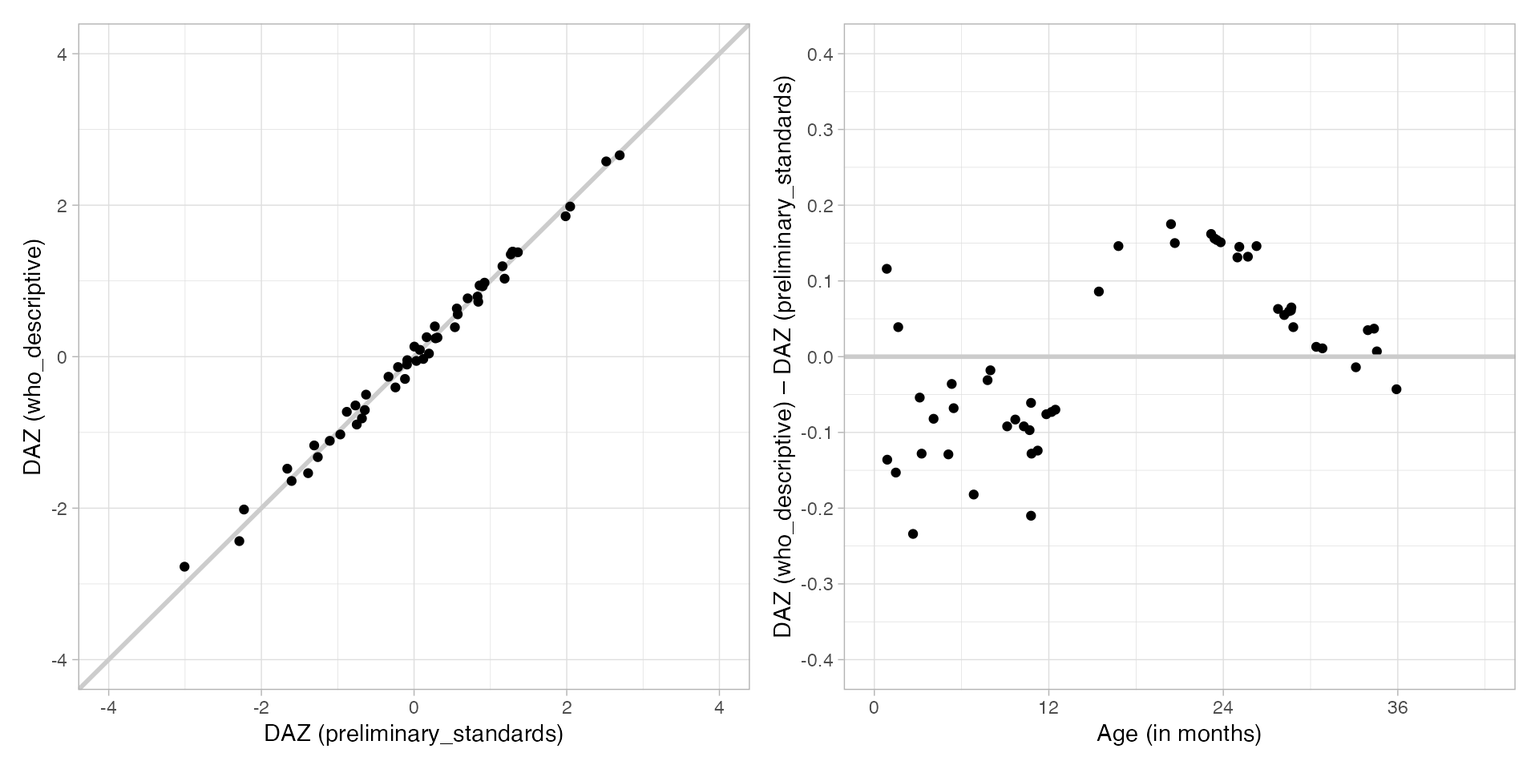
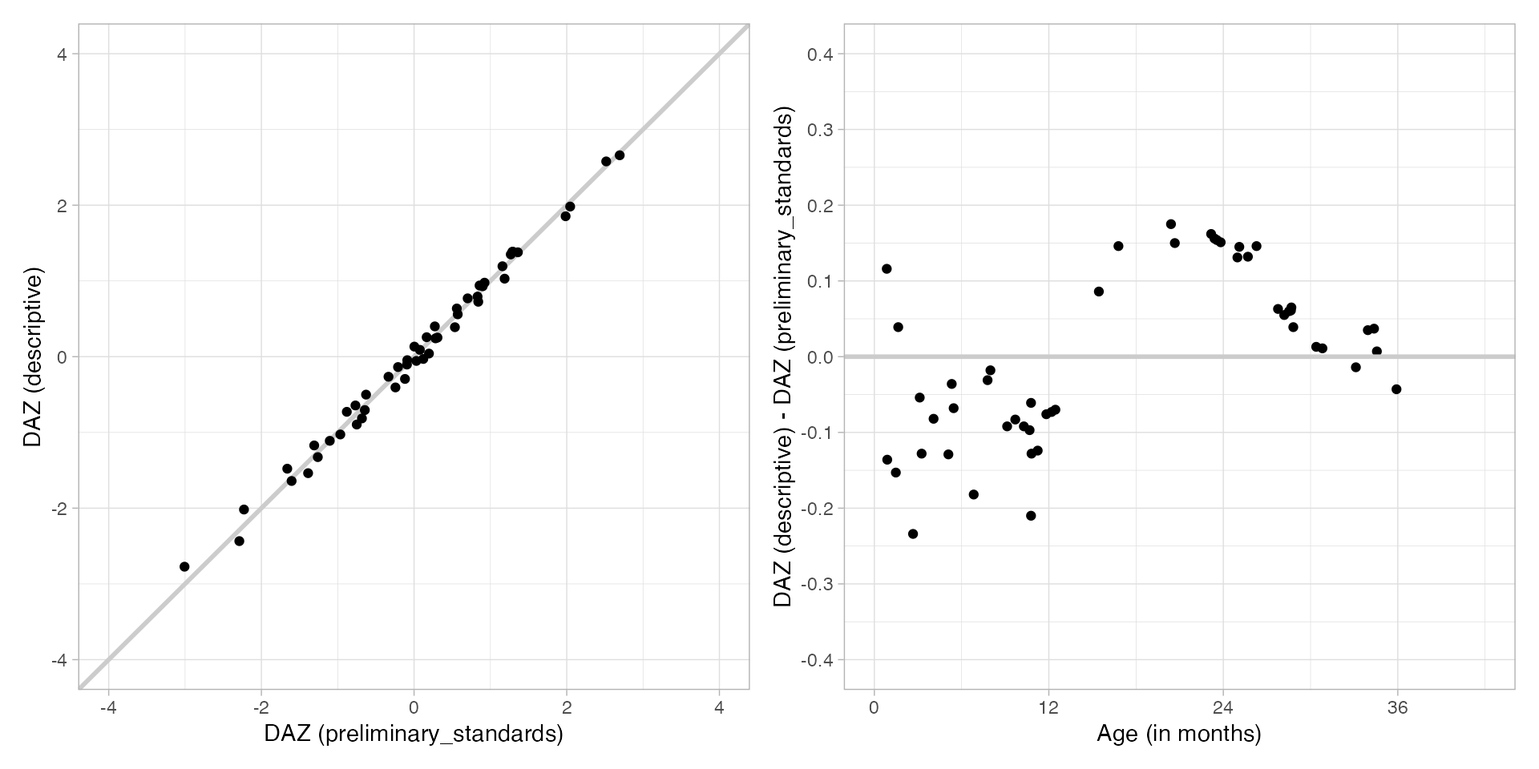
Update site

Changed region(s): [[0.5, 0.0938, 0.5312, 0.8125], [0.0, 0.3125, 0.0312, 0.5938]]

diff --git a/docs/articles/scoring_GSED.html b/docs/articles/scoring_GSED.html
@@ -32,7 +32,7 @@
       </button>
       <span class="navbar-brand">
         <a class="navbar-link" href="../index.html">dscore</a>
-        <span class="version label label-default" data-toggle="tooltip" data-placement="bottom" title="">2.0.6</span>
+        <span class="version label label-default" data-toggle="tooltip" data-placement="bottom" title="">2.0.7</span>
       </span>
     </div>
 
@@ -882,32 +882,32 @@ references.</p>
 <p><img src="scoring_GSED_files/figure-html/unnamed-chunk-28-1.png" class="r-plt" width="960"></p>
 </div>
 <div class="section level3">
-<h3 id="who_descriptive-references">
-<code>who_descriptive</code> references<a class="anchor" aria-label="anchor" href="#who_descriptive-references"></a>
+<h3 id="descriptive-references">
+<code>descriptive</code> references<a class="anchor" aria-label="anchor" href="#descriptive-references"></a>
 </h3>
-<p>The <code>who_descriptive</code> references are based on data from
-all children across all seven GSED countries. These references reflect
-the observed data and should not be interpreted as standards. They are
+<p>The <code>descriptive</code> references are based on data from all
+children across all seven GSED countries. These references reflect the
+observed data and should not be interpreted as standards. They are
 intended for descriptive analyses of developmental status or for
 methodological studies.</p>
-<p>The <code>who_descriptive</code> references replace the earlier
+<p>The <code>descriptive</code> references replace the earlier
 <code>"phase1"</code> references, which were derived from GSED Phase I
 data (three countries).</p>
 <p>You can access these references by specifying
-<code>population = "who_descriptive"</code> in the <code><a href="../reference/dscore.html">dscore()</a></code>
+<code>population = "descriptive"</code> in the <code><a href="../reference/dscore.html">dscore()</a></code>
 function. To extract the references, use:</p>
 <div class="sourceCode" id="cb59"><pre class="downlit sourceCode r">
 <code class="sourceCode R"><span><span class="va">ref</span> <span class="op">&lt;-</span> <span class="va">builtin_references</span> <span class="op">|&gt;</span></span>
-<span>  <span class="fu"><a href="https://dplyr.tidyverse.org/reference/filter.html" class="external-link">filter</a></span><span class="op">(</span><span class="va">population</span> <span class="op">==</span> <span class="st">"who_descriptive"</span><span class="op">)</span> <span class="op">|&gt;</span></span>
+<span>  <span class="fu"><a href="https://dplyr.tidyverse.org/reference/filter.html" class="external-link">filter</a></span><span class="op">(</span><span class="va">population</span> <span class="op">==</span> <span class="st">"descriptive"</span><span class="op">)</span> <span class="op">|&gt;</span></span>
 <span>  <span class="fu"><a href="https://dplyr.tidyverse.org/reference/select.html" class="external-link">select</a></span><span class="op">(</span><span class="va">population</span>, <span class="va">age</span>, <span class="va">mu</span>, <span class="va">sigma</span>, <span class="va">nu</span>, <span class="va">tau</span>, <span class="va">SDM2</span>, <span class="va">SD0</span>, <span class="va">SDP2</span><span class="op">)</span></span>
 <span><span class="fu"><a href="https://rdrr.io/r/utils/head.html" class="external-link">head</a></span><span class="op">(</span><span class="va">ref</span><span class="op">)</span></span></code></pre></div>
-<pre><code><span><span class="co">##        population    age    mu  sigma     nu    tau     SDM2      SD0     SDP2</span></span>
-<span><span class="co">## 1 who_descriptive 0.0000 11.61 0.2620 0.9079 21.068 5.354991 11.61077 18.22228</span></span>
-<span><span class="co">## 2 who_descriptive 0.0192 12.40 0.2519 0.9310 21.106 5.919198 12.40068 19.14714</span></span>
-<span><span class="co">## 3 who_descriptive 0.0383 13.20 0.2422 0.9541 21.144 6.511667 13.20059 20.06532</span></span>
-<span><span class="co">## 4 who_descriptive 0.0575 14.00 0.2329 0.9772 21.182 7.126490 14.00051 20.96359</span></span>
-<span><span class="co">## 5 who_descriptive 0.0767 14.80 0.2239 1.0008 21.220 7.764326 14.80044 21.84040</span></span>
-<span><span class="co">## 6 who_descriptive 0.0958 15.60 0.2153 1.0253 21.257 8.420108 15.60038 22.70040</span></span></code></pre>
+<pre><code><span><span class="co">##    population    age    mu  sigma     nu    tau     SDM2      SD0     SDP2</span></span>
+<span><span class="co">## 1 descriptive 0.0000 11.61 0.2620 0.9079 21.068 5.354991 11.61077 18.22228</span></span>
+<span><span class="co">## 2 descriptive 0.0192 12.40 0.2519 0.9310 21.106 5.919198 12.40068 19.14714</span></span>
+<span><span class="co">## 3 descriptive 0.0383 13.20 0.2422 0.9541 21.144 6.511667 13.20059 20.06532</span></span>
+<span><span class="co">## 4 descriptive 0.0575 14.00 0.2329 0.9772 21.182 7.126490 14.00051 20.96359</span></span>
+<span><span class="co">## 5 descriptive 0.0767 14.80 0.2239 1.0008 21.220 7.764326 14.80044 21.84040</span></span>
+<span><span class="co">## 6 descriptive 0.0958 15.60 0.2153 1.0253 21.257 8.420108 15.60038 22.70040</span></span></code></pre>
 <p>The columns <code>mu</code>, <code>sigma</code>, <code>nu</code> and
 <code>tau</code> are the age-varying parameters of a Box-Cox
 <math display="inline" xmlns="http://www.w3.org/1998/Math/MathML"><semantics><mi>t</mi><annotation encoding="application/x-tex">t</annotation></semantics></math>
@@ -917,7 +917,7 @@ function. To extract the references, use:</p>
 <span>  <span class="va">data</span>,</span>
 <span>  xname <span class="op">=</span> <span class="st">"agedays"</span>,</span>
 <span>  xunit <span class="op">=</span> <span class="st">"days"</span>,</span>
-<span>  population <span class="op">=</span> <span class="st">"who_descriptive"</span></span>
+<span>  population <span class="op">=</span> <span class="st">"descriptive"</span></span>
 <span><span class="op">)</span></span>
 <span><span class="fu"><a href="https://rdrr.io/r/utils/head.html" class="external-link">head</a></span><span class="op">(</span><span class="va">ds2</span><span class="op">)</span></span></code></pre></div>
 <pre><code><span><span class="co">##        a  n      p     d      sem    daz</span></span>
@@ -928,14 +928,14 @@ function. To extract the references, use:</p>
 <span><span class="co">## 5 2.1903 31 0.2258 57.84 1.605532 -2.435</span></span>
 <span><span class="co">## 6 0.8980 80 0.7625 54.78 1.325298  2.578</span></span></code></pre>
 <p>Here are the growth charts for <strong>D-score</strong> and
-<strong>DAZ</strong>, based on the <code>who_descriptive</code>
+<strong>DAZ</strong>, based on the <code>descriptive</code>
 references.</p>
 <div class="sourceCode" id="cb63"><pre class="downlit sourceCode r">
 <code class="sourceCode R"><span><span class="kw"><a href="https://rdrr.io/r/base/library.html" class="external-link">library</a></span><span class="op">(</span><span class="va"><a href="https://ggplot2.tidyverse.org" class="external-link">ggplot2</a></span><span class="op">)</span></span>
 <span><span class="kw"><a href="https://rdrr.io/r/base/library.html" class="external-link">library</a></span><span class="op">(</span><span class="va"><a href="https://patchwork.data-imaginist.com" class="external-link">patchwork</a></span><span class="op">)</span></span>
 <span></span>
 <span><span class="va">r</span> <span class="op">&lt;-</span> <span class="va">builtin_references</span> <span class="op">|&gt;</span></span>
-<span>  <span class="fu"><a href="https://dplyr.tidyverse.org/reference/filter.html" class="external-link">filter</a></span><span class="op">(</span><span class="va">population</span> <span class="op">==</span> <span class="st">"who_descriptive"</span> <span class="op">&amp;</span> <span class="va">age</span> <span class="op">&lt;=</span> <span class="fl">3.5</span><span class="op">)</span> <span class="op">|&gt;</span></span>
+<span>  <span class="fu"><a href="https://dplyr.tidyverse.org/reference/filter.html" class="external-link">filter</a></span><span class="op">(</span><span class="va">population</span> <span class="op">==</span> <span class="st">"descriptive"</span> <span class="op">&amp;</span> <span class="va">age</span> <span class="op">&lt;=</span> <span class="fl">3.5</span><span class="op">)</span> <span class="op">|&gt;</span></span>
 <span>  <span class="fu"><a href="https://dplyr.tidyverse.org/reference/mutate.html" class="external-link">mutate</a></span><span class="op">(</span>m <span class="op">=</span> <span class="va">age</span> <span class="op">*</span> <span class="fl">12</span><span class="op">)</span></span>
 <span></span>
 <span><span class="va">ds2</span><span class="op">$</span><span class="va">m</span> <span class="op">&lt;-</span> <span class="va">ds2</span><span class="op">$</span><span class="va">a</span> <span class="op">*</span> <span class="fl">12</span></span>
@@ -986,21 +986,21 @@ references.</p>
 values than standards. This is because descriptive references are based
 on all children, including those with developmental delays, whereas
 standards are based on a healthy subsample.</p>
-<p>At present, the <code>who_descriptive</code> references produce DAZ
+<p>At present, the <code>descriptive</code> references produce DAZ
 values similar to those from the <code>preliminary_standards</code>
 references, but with a noticeably different age pattern. The main reason
-is that <code>who_descriptive</code> is based on key
-<code>gsed2510</code>, while <code>preliminary_standards</code> still
-rely on the older key <code>gsed2406</code>. This age pattern is
-expected to disappear once the new standards based on key
-<code>gsed2510</code> become available.</p>
+is that <code>descriptive</code> is based on key <code>gsed2510</code>,
+while <code>preliminary_standards</code> still rely on the older key
+<code>gsed2406</code>. This age pattern is expected to disappear once
+the new standards based on key <code>gsed2510</code> become
+available.</p>
 <div class="sourceCode" id="cb64"><pre class="downlit sourceCode r">
 <code class="sourceCode R"><span><span class="va">f1</span> <span class="op">&lt;-</span> <span class="fu"><a href="https://ggplot2.tidyverse.org/reference/ggplot.html" class="external-link">ggplot</a></span><span class="op">(</span>data <span class="op">=</span> <span class="cn">NULL</span>, <span class="fu"><a href="https://ggplot2.tidyverse.org/reference/aes.html" class="external-link">aes</a></span><span class="op">(</span>x <span class="op">=</span> <span class="va">ds1</span><span class="op">$</span><span class="va">daz</span>, y <span class="op">=</span> <span class="va">ds2</span><span class="op">$</span><span class="va">daz</span><span class="op">)</span><span class="op">)</span> <span class="op">+</span></span>
 <span>  <span class="fu"><a href="https://ggplot2.tidyverse.org/reference/ggtheme.html" class="external-link">theme_light</a></span><span class="op">(</span><span class="op">)</span> <span class="op">+</span></span>
 <span>  <span class="fu"><a href="https://ggplot2.tidyverse.org/reference/geom_abline.html" class="external-link">geom_abline</a></span><span class="op">(</span>intercept <span class="op">=</span> <span class="fl">0</span>, slope <span class="op">=</span> <span class="fl">1</span>, colour <span class="op">=</span> <span class="st">"grey80"</span>, linewidth <span class="op">=</span> <span class="fl">1</span><span class="op">)</span> <span class="op">+</span></span>
 <span>  <span class="fu"><a href="https://ggplot2.tidyverse.org/reference/geom_point.html" class="external-link">geom_point</a></span><span class="op">(</span>shape <span class="op">=</span> <span class="fl">19</span><span class="op">)</span> <span class="op">+</span></span>
 <span>  <span class="fu"><a href="https://ggplot2.tidyverse.org/reference/scale_continuous.html" class="external-link">scale_y_continuous</a></span><span class="op">(</span></span>
-<span>    <span class="st">"DAZ (who_descriptive)"</span>,</span>
+<span>    <span class="st">"DAZ (descriptive)"</span>,</span>
 <span>    breaks <span class="op">=</span> <span class="fu"><a href="https://rdrr.io/r/base/seq.html" class="external-link">seq</a></span><span class="op">(</span><span class="op">-</span><span class="fl">4</span>, <span class="fl">4</span>, <span class="fl">2</span><span class="op">)</span>,</span>
 <span>    limits <span class="op">=</span> <span class="fu"><a href="https://rdrr.io/r/base/c.html" class="external-link">c</a></span><span class="op">(</span><span class="op">-</span><span class="fl">4</span>, <span class="fl">4</span><span class="op">)</span></span>
 <span>  <span class="op">)</span> <span class="op">+</span></span>
@@ -1020,7 +1020,7 @@ expected to disappear once the new standards based on key
 <span>    breaks <span class="op">=</span> <span class="fu"><a href="https://rdrr.io/r/base/seq.html" class="external-link">seq</a></span><span class="op">(</span><span class="fl">0</span>, <span class="fl">42</span>, <span class="fl">12</span><span class="op">)</span></span>
 <span>  <span class="op">)</span> <span class="op">+</span></span>
 <span>  <span class="fu"><a href="https://ggplot2.tidyverse.org/reference/scale_continuous.html" class="external-link">scale_y_continuous</a></span><span class="op">(</span></span>
-<span>    <span class="st">"DAZ (who_descriptive) – DAZ (preliminary_standards)"</span>,</span>
+<span>    <span class="st">"DAZ (descriptive) - DAZ (preliminary_standards)"</span>,</span>
 <span>    breaks <span class="op">=</span> <span class="fu"><a href="https://rdrr.io/r/base/seq.html" class="external-link">seq</a></span><span class="op">(</span><span class="op">-</span><span class="fl">0.4</span>, <span class="fl">0.4</span>, <span class="fl">0.1</span><span class="op">)</span>,</span>
 <span>    limits <span class="op">=</span> <span class="fu"><a href="https://rdrr.io/r/base/c.html" class="external-link">c</a></span><span class="op">(</span><span class="op">-</span><span class="fl">0.4</span>, <span class="fl">0.4</span><span class="op">)</span></span>
 <span>  <span class="op">)</span></span>

diff --git a/docs/reference/get_reference.html b/docs/reference/get_reference.html
@@ -18,7 +18,7 @@ distribution."><!-- mathjax --><script src="https://cdnjs.cloudflare.com/ajax/li
       </button>
       <span class="navbar-brand">
         <a class="navbar-link" href="../index.html">dscore</a>
-        <span class="version label label-default" data-toggle="tooltip" data-placement="bottom" title="">2.0.6</span>
+        <span class="version label label-default" data-toggle="tooltip" data-placement="bottom" title="">2.0.7</span>
       </span>
     </div>
 
@@ -140,7 +140,7 @@ age range 3.5-5 yrs is linearly extrapolated and are only indicative.
 <p>The <code>"preliminary_standards"</code> references were calculated from the GSED
 Phase 1 validation using a subset of children with healthy development.
 (Van Buuren et al, 2025)</p>
-<p>The <code>"who_descriptive"</code> references were calculated from the GSED
+<p>The <code>"descriptive"</code> references were calculated from the GSED
 Phase 1 + 2 (Seven countries) validation study using the <code>"gsed2510"</code> key.
 It is a descriptive reference, i.e., no selection of children growing
 up in healthy environments was made. (In preparation for publication).</p>
@@ -172,14 +172,14 @@ D-score. International Journal of Behavioral Development, 49(4), 348-364,
     <div class="sourceCode"><pre class="sourceCode r"><code><span class="r-in"><span><span class="co"># see key-population combinations of builtin_references</span></span></span>
 <span class="r-in"><span><span class="fu"><a href="https://rdrr.io/r/base/table.html" class="external-link">table</a></span><span class="op">(</span><span class="va">builtin_references</span><span class="op">$</span><span class="va">key</span>, <span class="va">builtin_references</span><span class="op">$</span><span class="va">population</span><span class="op">)</span></span></span>
 <span class="r-out co"><span class="r-pr">#&gt;</span>           </span>
-<span class="r-out co"><span class="r-pr">#&gt;</span>            dutch gcdg phase1 preliminary_standards who_descriptive</span>
-<span class="r-out co"><span class="r-pr">#&gt;</span>   293_0        0    0    186                     0               0</span>
-<span class="r-out co"><span class="r-pr">#&gt;</span>   dutch      144    0      0                     0               0</span>
-<span class="r-out co"><span class="r-pr">#&gt;</span>   gcdg         0  121      0                     0               0</span>
-<span class="r-out co"><span class="r-pr">#&gt;</span>   gsed1912     0  121      0                     0               0</span>
-<span class="r-out co"><span class="r-pr">#&gt;</span>   gsed2212   185    0    186                     0               0</span>
-<span class="r-out co"><span class="r-pr">#&gt;</span>   gsed2406   185    0    186                   186               0</span>
-<span class="r-out co"><span class="r-pr">#&gt;</span>   gsed2510   185    0      0                   186             188</span>
+<span class="r-out co"><span class="r-pr">#&gt;</span>            descriptive dutch gcdg phase1 preliminary_standards</span>
+<span class="r-out co"><span class="r-pr">#&gt;</span>   293_0              0     0    0    186                     0</span>
+<span class="r-out co"><span class="r-pr">#&gt;</span>   dutch              0   144    0      0                     0</span>
+<span class="r-out co"><span class="r-pr">#&gt;</span>   gcdg               0     0  121      0                     0</span>
+<span class="r-out co"><span class="r-pr">#&gt;</span>   gsed1912           0     0  121      0                     0</span>
+<span class="r-out co"><span class="r-pr">#&gt;</span>   gsed2212           0   185    0    186                     0</span>
+<span class="r-out co"><span class="r-pr">#&gt;</span>   gsed2406           0   185    0    186                   186</span>
+<span class="r-out co"><span class="r-pr">#&gt;</span>   gsed2510         188   185    0      0                   186</span>
 <span class="r-in"><span></span></span>
 <span class="r-in"><span><span class="co"># get the default reference</span></span></span>
 <span class="r-in"><span><span class="va">reftab</span> <span class="op">&lt;-</span> <span class="fu">get_reference</span><span class="op">(</span><span class="op">)</span></span></span>
@@ -210,7 +210,7 @@ D-score. International Journal of Behavioral Development, 49(4), 348-364,
 <span class="r-out co"><span class="r-pr">#&gt;</span> population:  france </span>
 <span class="r-wrn co"><span class="r-pr">#&gt;</span> <span class="warning">Warning: </span>Reference 'france' for key 'gsed2510' not found. Fallback: 'preliminary_standards' for key 'gsed2406'.</span>
 <span class="r-in"><span></span></span>
-<span class="r-in"><span><span class="co"># if user specifies a builtin population (e.g. who_descriptive) and the key</span></span></span>
+<span class="r-in"><span><span class="co"># if user specifies a builtin population (e.g. descriptive) and the key</span></span></span>
 <span class="r-in"><span><span class="co"># is not found, then it returns the specified reference for its most recent key</span></span></span>
 <span class="r-in"><span><span class="va">reftab</span> <span class="op">&lt;-</span> <span class="fu">get_reference</span><span class="op">(</span>key <span class="op">=</span> <span class="st">"none"</span>, population <span class="op">=</span> <span class="st">"preliminary_standards"</span>, verbose <span class="op">=</span> <span class="cn">TRUE</span><span class="op">)</span></span></span>
 <span class="r-out co"><span class="r-pr">#&gt;</span> key:         none </span>

diff --git a/docs/reference/builtin_references.html b/docs/reference/builtin_references.html
@@ -23,7 +23,7 @@ known as the Development-for-Age Z-score (DAZ)."><!-- mathjax --><script src="ht
       </button>
       <span class="navbar-brand">
         <a class="navbar-link" href="../index.html">dscore</a>
-        <span class="version label label-default" data-toggle="tooltip" data-placement="bottom" title="">2.0.6</span>
+        <span class="version label label-default" data-toggle="tooltip" data-placement="bottom" title="">2.0.7</span>
       </span>
     </div>
 
@@ -106,7 +106,7 @@ age range 3.5-5 yrs is linearly extrapolated and is only indicative.</p>
 <p>The <code>"preliminary_standards"</code> were calculated from the GSED Phase 1 validation
 data (GSED-BGD, GSED-PAK, GSED-TZA) using a subset of children with
 covariate indicating healthy development.</p>
-<p>The <code>"who_descriptive"</code> references were calculated from the GSED Phase 1 &amp; 2
+<p>The <code>"descriptive"</code> references were calculated from the GSED Phase 1 &amp; 2
 validation data (GSED-BGD, GSED-BRA, GSED_CHN, GSED-CIV, GSED-NLD, GSED-PAK,
 GSED-TZA) cover age range 2w-3.5 years. The age range 3.5-5 yrs is linearly
 extrapolated and is only indicative. The source code for the relevant
@@ -149,11 +149,11 @@ R package version 6.0-3,
 <span class="r-in"><span><span class="fu"><a href="https://rdrr.io/r/base/table.html" class="external-link">table</a></span><span class="op">(</span><span class="va">builtin_references</span><span class="op">$</span><span class="va">population</span>, <span class="va">builtin_references</span><span class="op">$</span><span class="va">key</span><span class="op">)</span></span></span>
 <span class="r-out co"><span class="r-pr">#&gt;</span>                        </span>
 <span class="r-out co"><span class="r-pr">#&gt;</span>                         293_0 dutch gcdg gsed1912 gsed2212 gsed2406 gsed2510</span>
+<span class="r-out co"><span class="r-pr">#&gt;</span>   descriptive               0     0    0        0        0        0      188</span>
 <span class="r-out co"><span class="r-pr">#&gt;</span>   dutch                     0   144    0        0      185      185      185</span>
 <span class="r-out co"><span class="r-pr">#&gt;</span>   gcdg                      0     0  121      121        0        0        0</span>
 <span class="r-out co"><span class="r-pr">#&gt;</span>   phase1                  186     0    0        0      186      186        0</span>
 <span class="r-out co"><span class="r-pr">#&gt;</span>   preliminary_standards     0     0    0        0        0      186      186</span>
-<span class="r-out co"><span class="r-pr">#&gt;</span>   who_descriptive           0     0    0        0        0        0      188</span>
 </code></pre></div>
     </div>
   </div>

diff --git a/docs/news/index.html b/docs/news/index.html
@@ -17,7 +17,7 @@
       </button>
       <span class="navbar-brand">
         <a class="navbar-link" href="../index.html">dscore</a>
-        <span class="version label label-default" data-toggle="tooltip" data-placement="bottom" title="">2.0.6</span>
+        <span class="version label label-default" data-toggle="tooltip" data-placement="bottom" title="">2.0.7</span>
       </span>
     </div>
 
@@ -69,6 +69,10 @@
       <small>Source: <a href="https://github.com/d-score/dscore/blob/HEAD/NEWS.md" class="external-link"><code>NEWS.md</code></a></small>
     </div>
 
+    <div class="section level2">
+<h2 class="page-header" data-toc-text="2.0.7" id="dscore-207">dscore 2.0.7<a class="anchor" aria-label="anchor" href="#dscore-207"></a></h2>
+<ul><li>Renames the D-score reference <code>"who_descriptive"</code> to <code>"descriptive"</code>. If you have code that relies on the old name, please update it accordingly.</li>
+</ul></div>
     <div class="section level2">
 <h2 class="page-header" data-toc-text="2.0.6" id="dscore-206">dscore 2.0.6<a class="anchor" aria-label="anchor" href="#dscore-206"></a></h2>
 <ul><li>Adds <code><a href="../reference/ddomain.html">ddomain()</a></code> function and <code>builtin_domains</code> internal data to facilitate domain-level scoring</li>

diff --git a/docs/reference/builtin_domaintable.html b/docs/reference/builtin_domaintable.html
@@ -18,7 +18,7 @@ of items for measuring early child development."><!-- mathjax --><script src="ht
       </button>
       <span class="navbar-brand">
         <a class="navbar-link" href="../index.html">dscore</a>
-        <span class="version label label-default" data-toggle="tooltip" data-placement="bottom" title="">2.0.6</span>
+        <span class="version label label-default" data-toggle="tooltip" data-placement="bottom" title="">2.0.7</span>
       </span>
     </div>
 

diff --git a/docs/reference/builtin_itembank.html b/docs/reference/builtin_itembank.html
@@ -20,7 +20,7 @@ are a subset of all items as collected in builtin_itemtable."><!-- mathjax --><s
       </button>
       <span class="navbar-brand">
         <a class="navbar-link" href="../index.html">dscore</a>
-        <span class="version label label-default" data-toggle="tooltip" data-placement="bottom" title="">2.0.6</span>
+        <span class="version label label-default" data-toggle="tooltip" data-placement="bottom" title="">2.0.7</span>
       </span>
     </div>
 

diff --git a/docs/reference/builtin_itemtable.html b/docs/reference/builtin_itemtable.html
@@ -18,7 +18,7 @@ of items for measuring early child development."><!-- mathjax --><script src="ht
       </button>
       <span class="navbar-brand">
         <a class="navbar-link" href="../index.html">dscore</a>
-        <span class="version label label-default" data-toggle="tooltip" data-placement="bottom" title="">2.0.6</span>
+        <span class="version label label-default" data-toggle="tooltip" data-placement="bottom" title="">2.0.7</span>
       </span>
     </div>
 

diff --git a/docs/reference/builtin_keys.html b/docs/reference/builtin_keys.html
@@ -20,7 +20,7 @@ from the same key."><!-- mathjax --><script src="https://cdnjs.cloudflare.com/aj
       </button>
       <span class="navbar-brand">
         <a class="navbar-link" href="../index.html">dscore</a>
-        <span class="version label label-default" data-toggle="tooltip" data-placement="bottom" title="">2.0.6</span>
+        <span class="version label label-default" data-toggle="tooltip" data-placement="bottom" title="">2.0.7</span>
       </span>
     </div>
 

diff --git a/docs/reference/builtin_translate.html b/docs/reference/builtin_translate.html
@@ -18,7 +18,7 @@ translating among sets of item names into each other."><!-- mathjax --><script s
       </button>
       <span class="navbar-brand">
         <a class="navbar-link" href="../index.html">dscore</a>
-        <span class="version label label-default" data-toggle="tooltip" data-placement="bottom" title="">2.0.6</span>
+        <span class="version label label-default" data-toggle="tooltip" data-placement="bottom" title="">2.0.7</span>
       </span>
     </div>
 

diff --git a/docs/reference/calculate_posterior.html b/docs/reference/calculate_posterior.html
@@ -18,7 +18,7 @@ dynamic EAP, the procedure ignores the score of item j."><!-- mathjax --><script
       </button>
       <span class="navbar-brand">
         <a class="navbar-link" href="../index.html">dscore</a>
-        <span class="version label label-default" data-toggle="tooltip" data-placement="bottom" title="">2.0.6</span>
+        <span class="version label label-default" data-toggle="tooltip" data-placement="bottom" title="">2.0.7</span>
       </span>
     </div>
 

diff --git a/docs/reference/count_mu.html b/docs/reference/count_mu.html
@@ -18,7 +18,7 @@ reference for a given key."><!-- mathjax --><script src="https://cdnjs.cloudflar
       </button>
       <span class="navbar-brand">
         <a class="navbar-link" href="../index.html">dscore</a>
-        <span class="version label label-default" data-toggle="tooltip" data-placement="bottom" title="">2.0.6</span>
+        <span class="version label label-default" data-toggle="tooltip" data-placement="bottom" title="">2.0.7</span>
       </span>
     </div>
 

diff --git a/docs/reference/count_mu_dutch.html b/docs/reference/count_mu_dutch.html
@@ -19,7 +19,7 @@ to set prior mean under key "dutch".'><!-- mathjax --><script src="https://cdnjs
       </button>
       <span class="navbar-brand">
         <a class="navbar-link" href="../index.html">dscore</a>
-        <span class="version label label-default" data-toggle="tooltip" data-placement="bottom" title="">2.0.6</span>
+        <span class="version label label-default" data-toggle="tooltip" data-placement="bottom" title="">2.0.7</span>
       </span>
     </div>
 
